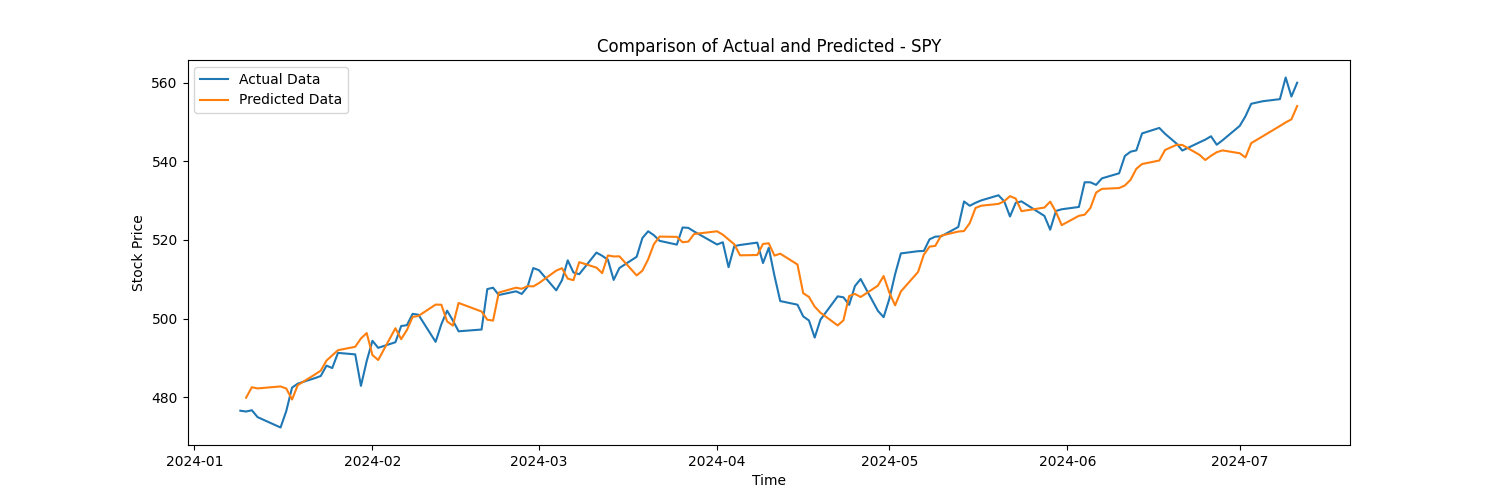
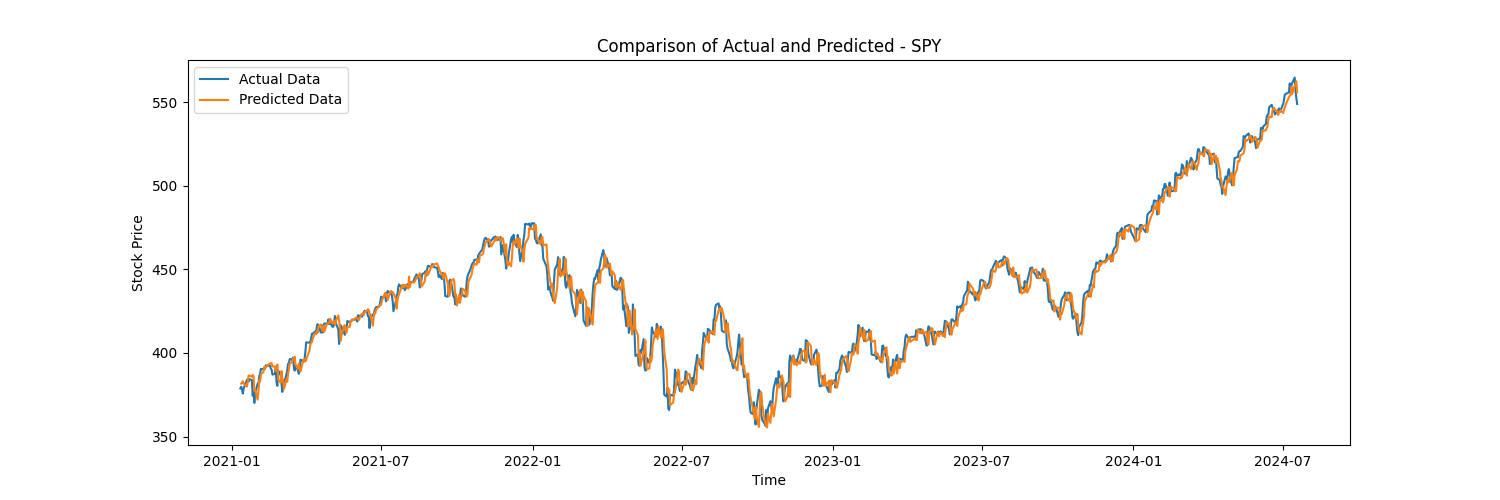
Added more hyperparameter options, also changed the training data to start at 2006.

diff --git a/backtester.py b/backtester.py
@@ -49,7 +49,7 @@ indicators = {
 train_tickers = ["SPY"]  # Add more tickers as needed
 predict_ticker = "SPY"
 
-start = dt.datetime(2020, 1, 1)
+start = dt.datetime(2006, 1, 1)
 end = dt.datetime.now()
 
 # Download and preprocess data for each ticker
@@ -111,30 +111,30 @@ X, y = df_prepared.values[:, :n_obs], df_prepared.values[:, -1]
 # Reshape input to be 3D [samples, timesteps, features] as required by LSTM
 X = X.reshape((X.shape[0], n_input, len(df.columns)))
 
-optimizers = ["Adam"]
+optimizers = ["Adam", "Adagrad", "Nadam"]
 learning_rates = [0.001, 0.01, 0.1]
-batch_sizes = [32, 64]
+batch_sizes = [4, 8, 16]
 
 
 train_X, test_X, train_Y, test_Y = train_test_split(
     X, y, test_size=0.2, random_state=42
 )
 
-train_X, val_X, train_Y, val_Y = train_test_split(
+train_hypertune_X, val_X, train_hypertune_Y, val_Y = train_test_split(
     train_X, train_Y, test_size=0.25, random_state=42
 )
 
-# best_rmse, best_params = hyperparameter_tuning(
-#     optimizers, learning_rates, batch_sizes, train_X, val_X, train_Y, val_Y
-# )
+best_rmse, best_params = hyperparameter_tuning(
+    optimizers,
+    learning_rates,
+    batch_sizes,
+    train_hypertune_X,
+    val_X,
+    train_hypertune_Y,
+    val_Y,
+)
 
-best_params = {
-    "optimizer": "Adam",
-    "learning_rate": 0.1,
-    "batch_size": 32,
-}
-
-layers_list = [[50], [50, 20]]
+layers_list = [[10], [30], [50], [100], [150], [200]]
 
 best_architecture = architecture_tuning(
     best_params, layers_list, train_X, test_X, train_Y, test_Y
@@ -158,7 +158,7 @@ history = final_model.fit(
     verbose=2,
 )
 
-pred_start = dt.datetime(2024, 1, 1)
+pred_start = dt.datetime(2021, 1, 1)
 
 # Download and preprocess data for the prediction ticker
 df_predict = download_and_preprocess(

diff --git a/utils.py b/utils.py
@@ -176,9 +176,9 @@ def train_and_evaluate(
     )
 
     val_predictions = model.predict(val_X)
-    print(val_predictions)
-    print("######################")
-    print(val_Y)
+    # print(val_predictions)
+    # print("######################")
+    # print(val_Y)
     val_rmse = np.sqrt(mean_squared_error(val_Y, val_predictions))
     return val_rmse
 
